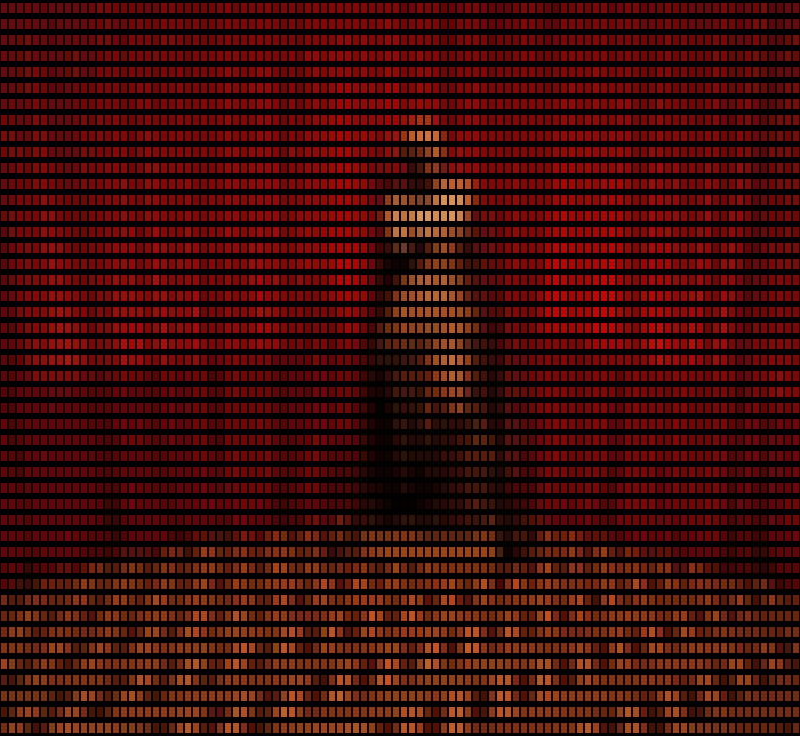
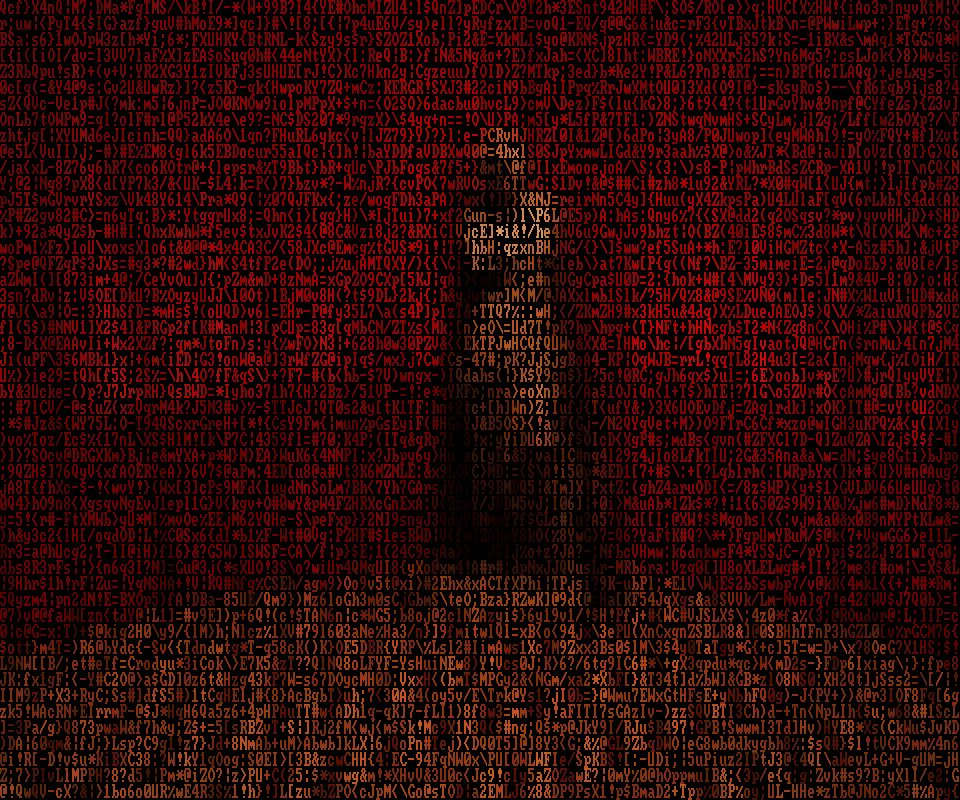
Speed up the fall ~5x and make the README image faithful
- Fall: faster async column speeds and a tighter start stagger so the
  screen fills in ~4s and reaches the drifting curtains much sooner
  (default -u divisor is now 1).
- Snapshot: render the settled mosaic with real colour-on-black glyphs
  using a vendored public-domain 8x8 bitmap font, so --snapshot (and the
  README image) match what the terminal actually shows instead of solid
  colour blobs.

Claude-Session: https://claude.ai/code/session_01B3oZJErAH1JjZYi9x7BsHK

diff --git a/vendor/font8x8_basic.h b/vendor/font8x8_basic.h
@@ -1,0 +1,152 @@
+/**
+ * 8x8 monochrome bitmap fonts for rendering
+ * Author: Daniel Hepper <[email redacted]>
+ *
+ * License: Public Domain
+ *
+ * Based on:
+ * // Summary: font8x8.h
+ * // 8x8 monochrome bitmap fonts for rendering
+ * //
+ * // Author:
+ * //     Marcel Sondaar
+ * //     International Business Machines (public domain VGA fonts)
+ * //
+ * // License:
+ * //     Public Domain
+ *
+ * Fetched from: http://dimensionalrift.homelinux.net/combuster/mos3/?p=viewsource&file=/modules/gfx/font8_8.asm
+ **/
+
+// Constant: font8x8_basic
+// Contains an 8x8 font map for unicode points U+0000 - U+007F (basic latin)
+char font8x8_basic[128][8] = {
+    { 0x00, 0x00, 0x00, 0x00, 0x00, 0x00, 0x00, 0x00},   // U+0000 (nul)
+    { 0x00, 0x00, 0x00, 0x00, 0x00, 0x00, 0x00, 0x00},   // U+0001
+    { 0x00, 0x00, 0x00, 0x00, 0x00, 0x00, 0x00, 0x00},   // U+0002
+    { 0x00, 0x00, 0x00, 0x00, 0x00, 0x00, 0x00, 0x00},   // U+0003
+    { 0x00, 0x00, 0x00, 0x00, 0x00, 0x00, 0x00, 0x00},   // U+0004
+    { 0x00, 0x00, 0x00, 0x00, 0x00, 0x00, 0x00, 0x00},   // U+0005
+    { 0x00, 0x00, 0x00, 0x00, 0x00, 0x00, 0x00, 0x00},   // U+0006
+    { 0x00, 0x00, 0x00, 0x00, 0x00, 0x00, 0x00, 0x00},   // U+0007
+    { 0x00, 0x00, 0x00, 0x00, 0x00, 0x00, 0x00, 0x00},   // U+0008
+    { 0x00, 0x00, 0x00, 0x00, 0x00, 0x00, 0x00, 0x00},   // U+0009
+    { 0x00, 0x00, 0x00, 0x00, 0x00, 0x00, 0x00, 0x00},   // U+000A
+    { 0x00, 0x00, 0x00, 0x00, 0x00, 0x00, 0x00, 0x00},   // U+000B
+    { 0x00, 0x00, 0x00, 0x00, 0x00, 0x00, 0x00, 0x00},   // U+000C
+    { 0x00, 0x00, 0x00, 0x00, 0x00, 0x00, 0x00, 0x00},   // U+000D
+    { 0x00, 0x00, 0x00, 0x00, 0x00, 0x00, 0x00, 0x00},   // U+000E
+    { 0x00, 0x00, 0x00, 0x00, 0x00, 0x00, 0x00, 0x00},   // U+000F
+    { 0x00, 0x00, 0x00, 0x00, 0x00, 0x00, 0x00, 0x00},   // U+0010
+    { 0x00, 0x00, 0x00, 0x00, 0x00, 0x00, 0x00, 0x00},   // U+0011
+    { 0x00, 0x00, 0x00, 0x00, 0x00, 0x00, 0x00, 0x00},   // U+0012
+    { 0x00, 0x00, 0x00, 0x00, 0x00, 0x00, 0x00, 0x00},   // U+0013
+    { 0x00, 0x00, 0x00, 0x00, 0x00, 0x00, 0x00, 0x00},   // U+0014
+    { 0x00, 0x00, 0x00, 0x00, 0x00, 0x00, 0x00, 0x00},   // U+0015
+    { 0x00, 0x00, 0x00, 0x00, 0x00, 0x00, 0x00, 0x00},   // U+0016
+    { 0x00, 0x00, 0x00, 0x00, 0x00, 0x00, 0x00, 0x00},   // U+0017
+    { 0x00, 0x00, 0x00, 0x00, 0x00, 0x00, 0x00, 0x00},   // U+0018
+    { 0x00, 0x00, 0x00, 0x00, 0x00, 0x00, 0x00, 0x00},   // U+0019
+    { 0x00, 0x00, 0x00, 0x00, 0x00, 0x00, 0x00, 0x00},   // U+001A
+    { 0x00, 0x00, 0x00, 0x00, 0x00, 0x00, 0x00, 0x00},   // U+001B
+    { 0x00, 0x00, 0x00, 0x00, 0x00, 0x00, 0x00, 0x00},   // U+001C
+    { 0x00, 0x00, 0x00, 0x00, 0x00, 0x00, 0x00, 0x00},   // U+001D
+    { 0x00, 0x00, 0x00, 0x00, 0x00, 0x00, 0x00, 0x00},   // U+001E
+    { 0x00, 0x00, 0x00, 0x00, 0x00, 0x00, 0x00, 0x00},   // U+001F
+    { 0x00, 0x00, 0x00, 0x00, 0x00, 0x00, 0x00, 0x00},   // U+0020 (space)
+    { 0x18, 0x3C, 0x3C, 0x18, 0x18, 0x00, 0x18, 0x00},   // U+0021 (!)
+    { 0x36, 0x36, 0x00, 0x00, 0x00, 0x00, 0x00, 0x00},   // U+0022 (")
+    { 0x36, 0x36, 0x7F, 0x36, 0x7F, 0x36, 0x36, 0x00},   // U+0023 (#)
+    { 0x0C, 0x3E, 0x03, 0x1E, 0x30, 0x1F, 0x0C, 0x00},   // U+0024 ($)
+    { 0x00, 0x63, 0x33, 0x18, 0x0C, 0x66, 0x63, 0x00},   // U+0025 (%)
+    { 0x1C, 0x36, 0x1C, 0x6E, 0x3B, 0x33, 0x6E, 0x00},   // U+0026 (&)
+    { 0x06, 0x06, 0x03, 0x00, 0x00, 0x00, 0x00, 0x00},   // U+0027 (')
+    { 0x18, 0x0C, 0x06, 0x06, 0x06, 0x0C, 0x18, 0x00},   // U+0028 (()
+    { 0x06, 0x0C, 0x18, 0x18, 0x18, 0x0C, 0x06, 0x00},   // U+0029 ())
+    { 0x00, 0x66, 0x3C, 0xFF, 0x3C, 0x66, 0x00, 0x00},   // U+002A (*)
+    { 0x00, 0x0C, 0x0C, 0x3F, 0x0C, 0x0C, 0x00, 0x00},   // U+002B (+)
+    { 0x00, 0x00, 0x00, 0x00, 0x00, 0x0C, 0x0C, 0x06},   // U+002C (,)
+    { 0x00, 0x00, 0x00, 0x3F, 0x00, 0x00, 0x00, 0x00},   // U+002D (-)
+    { 0x00, 0x00, 0x00, 0x00, 0x00, 0x0C, 0x0C, 0x00},   // U+002E (.)
+    { 0x60, 0x30, 0x18, 0x0C, 0x06, 0x03, 0x01, 0x00},   // U+002F (/)
+    { 0x3E, 0x63, 0x73, 0x7B, 0x6F, 0x67, 0x3E, 0x00},   // U+0030 (0)
+    { 0x0C, 0x0E, 0x0C, 0x0C, 0x0C, 0x0C, 0x3F, 0x00},   // U+0031 (1)
+    { 0x1E, 0x33, 0x30, 0x1C, 0x06, 0x33, 0x3F, 0x00},   // U+0032 (2)
+    { 0x1E, 0x33, 0x30, 0x1C, 0x30, 0x33, 0x1E, 0x00},   // U+0033 (3)
+    { 0x38, 0x3C, 0x36, 0x33, 0x7F, 0x30, 0x78, 0x00},   // U+0034 (4)
+    { 0x3F, 0x03, 0x1F, 0x30, 0x30, 0x33, 0x1E, 0x00},   // U+0035 (5)
+    { 0x1C, 0x06, 0x03, 0x1F, 0x33, 0x33, 0x1E, 0x00},   // U+0036 (6)
+    { 0x3F, 0x33, 0x30, 0x18, 0x0C, 0x0C, 0x0C, 0x00},   // U+0037 (7)
+    { 0x1E, 0x33, 0x33, 0x1E, 0x33, 0x33, 0x1E, 0x00},   // U+0038 (8)
+    { 0x1E, 0x33, 0x33, 0x3E, 0x30, 0x18, 0x0E, 0x00},   // U+0039 (9)
+    { 0x00, 0x0C, 0x0C, 0x00, 0x00, 0x0C, 0x0C, 0x00},   // U+003A (:)
+    { 0x00, 0x0C, 0x0C, 0x00, 0x00, 0x0C, 0x0C, 0x06},   // U+003B (;)
+    { 0x18, 0x0C, 0x06, 0x03, 0x06, 0x0C, 0x18, 0x00},   // U+003C (<)
+    { 0x00, 0x00, 0x3F, 0x00, 0x00, 0x3F, 0x00, 0x00},   // U+003D (=)
+    { 0x06, 0x0C, 0x18, 0x30, 0x18, 0x0C, 0x06, 0x00},   // U+003E (>)
+    { 0x1E, 0x33, 0x30, 0x18, 0x0C, 0x00, 0x0C, 0x00},   // U+003F (?)
+    { 0x3E, 0x63, 0x7B, 0x7B, 0x7B, 0x03, 0x1E, 0x00},   // U+0040 (@)
+    { 0x0C, 0x1E, 0x33, 0x33, 0x3F, 0x33, 0x33, 0x00},   // U+0041 (A)
+    { 0x3F, 0x66, 0x66, 0x3E, 0x66, 0x66, 0x3F, 0x00},   // U+0042 (B)
+    { 0x3C, 0x66, 0x03, 0x03, 0x03, 0x66, 0x3C, 0x00},   // U+0043 (C)
+    { 0x1F, 0x36, 0x66, 0x66, 0x66, 0x36, 0x1F, 0x00},   // U+0044 (D)
+    { 0x7F, 0x46, 0x16, 0x1E, 0x16, 0x46, 0x7F, 0x00},   // U+0045 (E)
+    { 0x7F, 0x46, 0x16, 0x1E, 0x16, 0x06, 0x0F, 0x00},   // U+0046 (F)
+    { 0x3C, 0x66, 0x03, 0x03, 0x73, 0x66, 0x7C, 0x00},   // U+0047 (G)
+    { 0x33, 0x33, 0x33, 0x3F, 0x33, 0x33, 0x33, 0x00},   // U+0048 (H)
+    { 0x1E, 0x0C, 0x0C, 0x0C, 0x0C, 0x0C, 0x1E, 0x00},   // U+0049 (I)
+    { 0x78, 0x30, 0x30, 0x30, 0x33, 0x33, 0x1E, 0x00},   // U+004A (J)
+    { 0x67, 0x66, 0x36, 0x1E, 0x36, 0x66, 0x67, 0x00},   // U+004B (K)
+    { 0x0F, 0x06, 0x06, 0x06, 0x46, 0x66, 0x7F, 0x00},   // U+004C (L)
+    { 0x63, 0x77, 0x7F, 0x7F, 0x6B, 0x63, 0x63, 0x00},   // U+004D (M)
+    { 0x63, 0x67, 0x6F, 0x7B, 0x73, 0x63, 0x63, 0x00},   // U+004E (N)
+    { 0x1C, 0x36, 0x63, 0x63, 0x63, 0x36, 0x1C, 0x00},   // U+004F (O)
+    { 0x3F, 0x66, 0x66, 0x3E, 0x06, 0x06, 0x0F, 0x00},   // U+0050 (P)
+    { 0x1E, 0x33, 0x33, 0x33, 0x3B, 0x1E, 0x38, 0x00},   // U+0051 (Q)
+    { 0x3F, 0x66, 0x66, 0x3E, 0x36, 0x66, 0x67, 0x00},   // U+0052 (R)
+    { 0x1E, 0x33, 0x07, 0x0E, 0x38, 0x33, 0x1E, 0x00},   // U+0053 (S)
+    { 0x3F, 0x2D, 0x0C, 0x0C, 0x0C, 0x0C, 0x1E, 0x00},   // U+0054 (T)
+    { 0x33, 0x33, 0x33, 0x33, 0x33, 0x33, 0x3F, 0x00},   // U+0055 (U)
+    { 0x33, 0x33, 0x33, 0x33, 0x33, 0x1E, 0x0C, 0x00},   // U+0056 (V)
+    { 0x63, 0x63, 0x63, 0x6B, 0x7F, 0x77, 0x63, 0x00},   // U+0057 (W)
+    { 0x63, 0x63, 0x36, 0x1C, 0x1C, 0x36, 0x63, 0x00},   // U+0058 (X)
+    { 0x33, 0x33, 0x33, 0x1E, 0x0C, 0x0C, 0x1E, 0x00},   // U+0059 (Y)
+    { 0x7F, 0x63, 0x31, 0x18, 0x4C, 0x66, 0x7F, 0x00},   // U+005A (Z)
+    { 0x1E, 0x06, 0x06, 0x06, 0x06, 0x06, 0x1E, 0x00},   // U+005B ([)
+    { 0x03, 0x06, 0x0C, 0x18, 0x30, 0x60, 0x40, 0x00},   // U+005C (\)
+    { 0x1E, 0x18, 0x18, 0x18, 0x18, 0x18, 0x1E, 0x00},   // U+005D (])
+    { 0x08, 0x1C, 0x36, 0x63, 0x00, 0x00, 0x00, 0x00},   // U+005E (^)
+    { 0x00, 0x00, 0x00, 0x00, 0x00, 0x00, 0x00, 0xFF},   // U+005F (_)
+    { 0x0C, 0x0C, 0x18, 0x00, 0x00, 0x00, 0x00, 0x00},   // U+0060 (`)
+    { 0x00, 0x00, 0x1E, 0x30, 0x3E, 0x33, 0x6E, 0x00},   // U+0061 (a)
+    { 0x07, 0x06, 0x06, 0x3E, 0x66, 0x66, 0x3B, 0x00},   // U+0062 (b)
+    { 0x00, 0x00, 0x1E, 0x33, 0x03, 0x33, 0x1E, 0x00},   // U+0063 (c)
+    { 0x38, 0x30, 0x30, 0x3e, 0x33, 0x33, 0x6E, 0x00},   // U+0064 (d)
+    { 0x00, 0x00, 0x1E, 0x33, 0x3f, 0x03, 0x1E, 0x00},   // U+0065 (e)
+    { 0x1C, 0x36, 0x06, 0x0f, 0x06, 0x06, 0x0F, 0x00},   // U+0066 (f)
+    { 0x00, 0x00, 0x6E, 0x33, 0x33, 0x3E, 0x30, 0x1F},   // U+0067 (g)
+    { 0x07, 0x06, 0x36, 0x6E, 0x66, 0x66, 0x67, 0x00},   // U+0068 (h)
+    { 0x0C, 0x00, 0x0E, 0x0C, 0x0C, 0x0C, 0x1E, 0x00},   // U+0069 (i)
+    { 0x30, 0x00, 0x30, 0x30, 0x30, 0x33, 0x33, 0x1E},   // U+006A (j)
+    { 0x07, 0x06, 0x66, 0x36, 0x1E, 0x36, 0x67, 0x00},   // U+006B (k)
+    { 0x0E, 0x0C, 0x0C, 0x0C, 0x0C, 0x0C, 0x1E, 0x00},   // U+006C (l)
+    { 0x00, 0x00, 0x33, 0x7F, 0x7F, 0x6B, 0x63, 0x00},   // U+006D (m)
+    { 0x00, 0x00, 0x1F, 0x33, 0x33, 0x33, 0x33, 0x00},   // U+006E (n)
+    { 0x00, 0x00, 0x1E, 0x33, 0x33, 0x33, 0x1E, 0x00},   // U+006F (o)
+    { 0x00, 0x00, 0x3B, 0x66, 0x66, 0x3E, 0x06, 0x0F},   // U+0070 (p)
+    { 0x00, 0x00, 0x6E, 0x33, 0x33, 0x3E, 0x30, 0x78},   // U+0071 (q)
+    { 0x00, 0x00, 0x3B, 0x6E, 0x66, 0x06, 0x0F, 0x00},   // U+0072 (r)
+    { 0x00, 0x00, 0x3E, 0x03, 0x1E, 0x30, 0x1F, 0x00},   // U+0073 (s)
+    { 0x08, 0x0C, 0x3E, 0x0C, 0x0C, 0x2C, 0x18, 0x00},   // U+0074 (t)
+    { 0x00, 0x00, 0x33, 0x33, 0x33, 0x33, 0x6E, 0x00},   // U+0075 (u)
+    { 0x00, 0x00, 0x33, 0x33, 0x33, 0x1E, 0x0C, 0x00},   // U+0076 (v)
+    { 0x00, 0x00, 0x63, 0x6B, 0x7F, 0x7F, 0x36, 0x00},   // U+0077 (w)
+    { 0x00, 0x00, 0x63, 0x36, 0x1C, 0x36, 0x63, 0x00},   // U+0078 (x)
+    { 0x00, 0x00, 0x33, 0x33, 0x33, 0x3E, 0x30, 0x1F},   // U+0079 (y)
+    { 0x00, 0x00, 0x3F, 0x19, 0x0C, 0x26, 0x3F, 0x00},   // U+007A (z)
+    { 0x38, 0x0C, 0x0C, 0x07, 0x0C, 0x0C, 0x38, 0x00},   // U+007B ({)
+    { 0x18, 0x18, 0x18, 0x00, 0x18, 0x18, 0x18, 0x00},   // U+007C (|)
+    { 0x07, 0x0C, 0x0C, 0x38, 0x0C, 0x0C, 0x07, 0x00},   // U+007D (})
+    { 0x6E, 0x3B, 0x00, 0x00, 0x00, 0x00, 0x00, 0x00},   // U+007E (~)
+    { 0x00, 0x00, 0x00, 0x00, 0x00, 0x00, 0x00, 0x00}    // U+007F
+};

diff --git a/cpeaks.c b/cpeaks.c
@@ -24,6 +24,7 @@
 
 #include "vendor/stb_image.h"
 #include "vendor/stb_image_write.h"
+#include "vendor/font8x8_basic.h"  /* font8x8_basic[128][8], public domain */
 #include "redroom_png.h"   /* redroom_embed_png[], redroom_embed_png_len */
 
 #include <curses.h>
@@ -279,24 +280,36 @@ static void build_target(int c, int r_) {
 /* Snapshot: render the settled mosaic to a PNG for verification            */
 /* ----------------------------------------------------------------------- */
 
+/* blit one 8x8 glyph, scaled to an 8x16 cell, in colour on black */
+static void blit_glyph(unsigned char *out, int W, int ox, int oy,
+                       char ch, unsigned char *rgb) {
+    if ((unsigned char)ch >= 128) ch = '?';
+    const char *bm = font8x8_basic[(int)ch];
+    for (int fy = 0; fy < 8; fy++) {
+        unsigned char bits = (unsigned char)bm[fy];
+        for (int fx = 0; fx < 8; fx++) {
+            if (!(bits & (1u << fx))) continue;
+            int px = ox + fx;
+            for (int d = 0; d < 2; d++) {       /* 8 rows -> 16 (cell is 2:1) */
+                int py = oy + fy*2 + d;
+                unsigned char *o = out + ((size_t)py*W + px)*3;
+                o[0]=rgb[0]; o[1]=rgb[1]; o[2]=rgb[2];
+            }
+        }
+    }
+}
+
+/* render the settled mosaic as real colour-on-black glyphs, like the terminal */
 static int snapshot(const char *path, int c, int r_) {
     N_GLYPHS = strlen(GLYPHS);
     build_target(c, r_);
     int cw = 8, ch = 16;                 /* px per cell (2:1)               */
     int W = cols*cw, H = rows*ch;
-    unsigned char *out = calloc((size_t)W*H*3, 1);
+    unsigned char *out = calloc((size_t)W*H*3, 1);   /* black background     */
     for (int y = 0; y < rows; y++)
         for (int x = 0; x < cols; x++) {
             int idx = CELL(y,x);
-            unsigned char *rgb = &t_rgb[idx*3];
-            /* draw a centred ~62% blob on black to mimic a glowing glyph */
-            int bx0 = x*cw + cw/5, bx1 = (x+1)*cw - cw/5;
-            int by0 = y*ch + ch/5, by1 = (y+1)*ch - ch/5;
-            for (int py = by0; py < by1; py++)
-                for (int px = bx0; px < bx1; px++) {
-                    unsigned char *o = out + ((size_t)py*W + px)*3;
-                    o[0]=rgb[0]; o[1]=rgb[1]; o[2]=rgb[2];
-                }
+            blit_glyph(out, W, x*cw, y*ch, GLYPHS[t_glyph[idx]], &t_rgb[idx*3]);
         }
     int ok = stbi_write_png(path, W, H, 3, out, W*3);
     free(out);
@@ -409,8 +422,8 @@ static void fall_init(void) {
     spd  = malloc(sizeof(double)*cols);
     taillen = malloc(sizeof(int)*cols);
     for (int x = 0; x < cols; x++) {
-        head[x] = -(rand() % (rows + GLOW));      /* staggered start         */
-        spd[x]  = 0.55 + (rand()%100)/100.0*1.1;  /* async speeds            */
+        head[x] = -(rand() % (rows/2 + GLOW));    /* tighter staggered start  */
+        spd[x]  = 0.7 + (rand()%100)/100.0*0.8;   /* async speeds (~5x prior) */
         taillen[x] = GLOW;
     }
 }
@@ -521,7 +534,7 @@ static void usage(void) {
     printf(
 "cpeaks - Twin Peaks Red Room Matrix rain\n\n"
 "Usage: cpeaks [options]\n"
-"  -u N           update delay / speed divisor (1-10, default 3; higher=slower)\n"
+"  -u N           update delay / speed divisor (1-10, default 1; higher=slower)\n"
 "  -a F           cell aspect ratio (height/width, default 2.0)\n"
 "  -n             no curtain drift (settle and hold)\n"
 "  --snapshot F [W H]   render the settled image to PNG F (default grid 100x46)\n"
@@ -536,7 +549,7 @@ int main(int argc, char **argv) {
     srand((unsigned)time(NULL) ^ (unsigned)getpid());
     N_GLYPHS = strlen(GLYPHS);
 
-    int speed_div = 3, do_drift = 1;
+    int speed_div = 1, do_drift = 1;
     const char *snap = NULL, *regf = NULL;
     int snapW = 100, snapH = 46;
 

diff --git a/README.md b/README.md
@@ -19,7 +19,10 @@ against red curtains and the black-and-white chevron floor. Once the image
 forms, the **curtains drift slowly as if in a warm breeze**. Press any key to
 leave.
 
-![the settled image](docs/snap.png)
+![the settled image, rendered as real colour-on-black glyphs](docs/snap.png)
+
+*An actual render of the settled frame (120×50) — colour-on-black glyphs, exactly
+as it appears in the terminal. Larger terminals give a sharper statue.*
 
 ## How it works
 